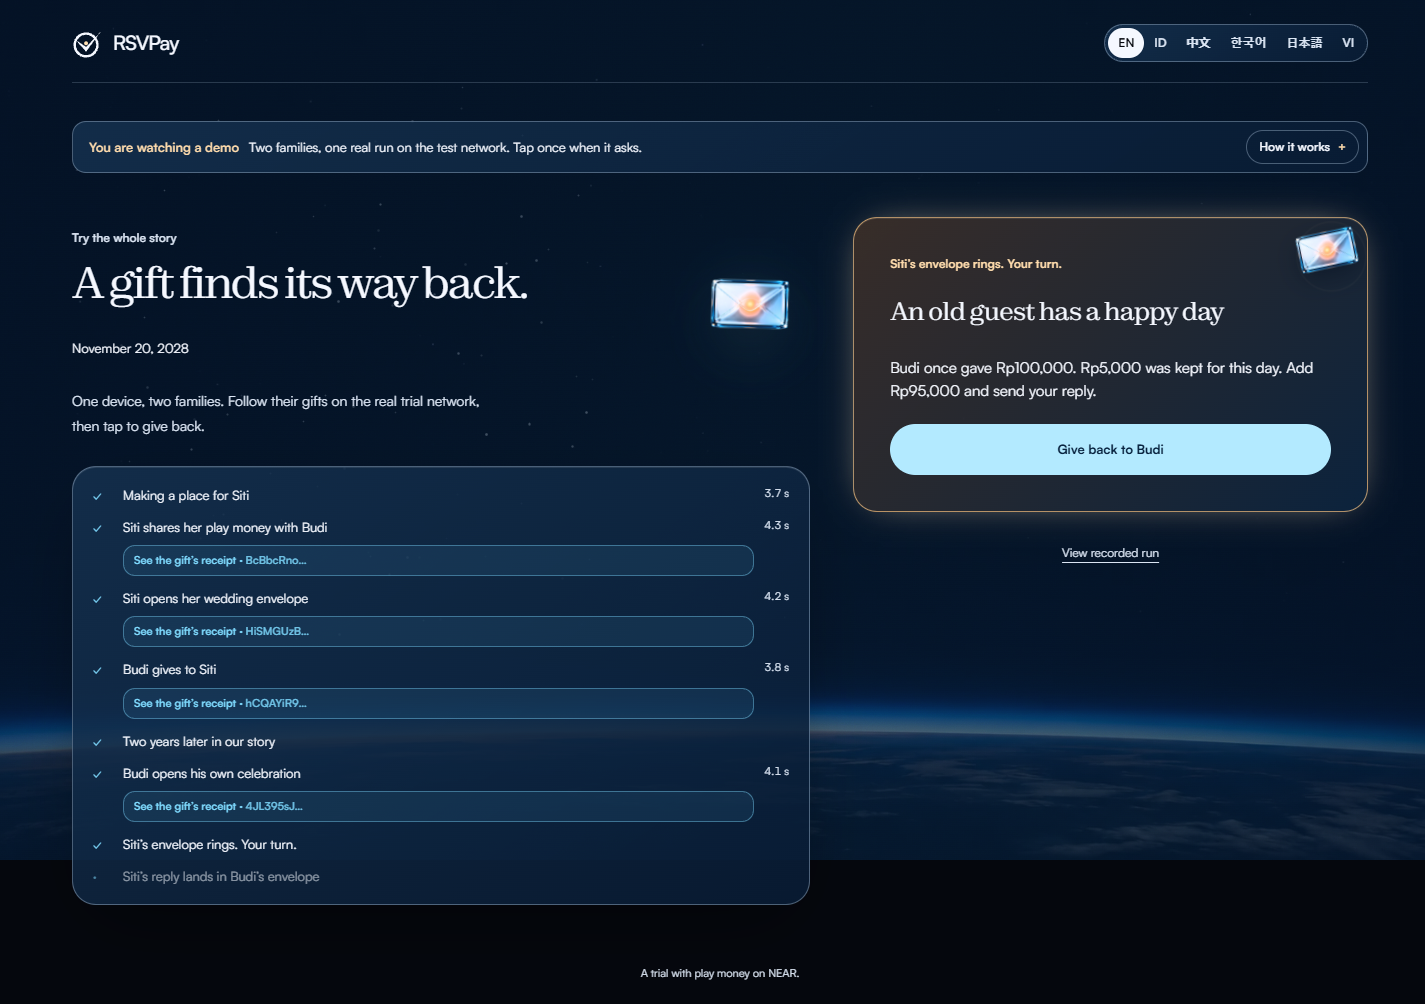
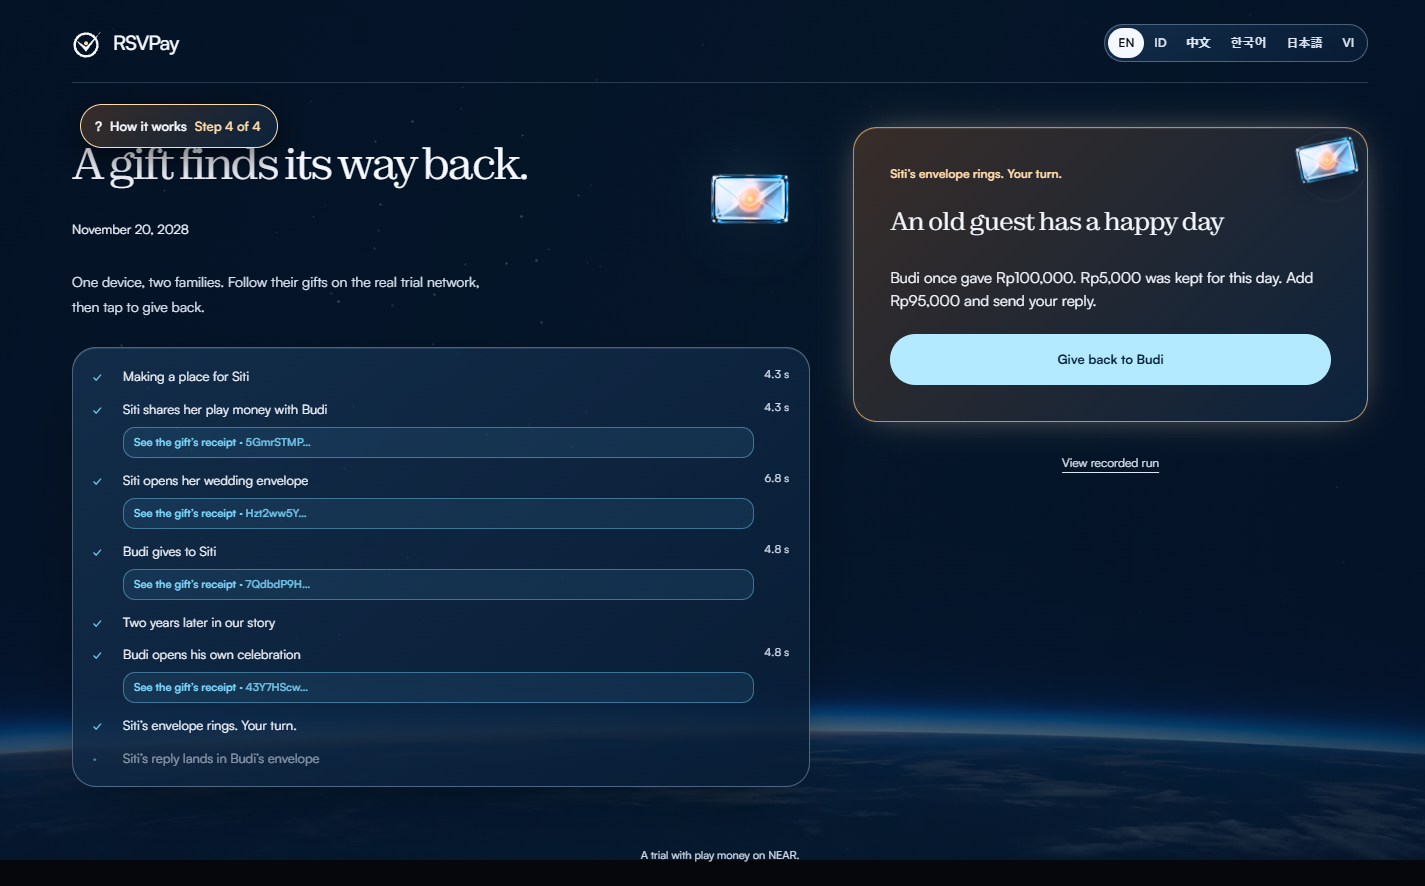
ITM-A4: bukti live penutup, kertas, dan dompet testnet
Laporan cerita utuh, balik, dan demo dari situs live sesudah deploy terakhir.

Bukti: docs/evidence/coba-e2e-report.txt, return-check-report.txt, demo-check-report.txt.

diff --git a/CHANGELOG.md b/CHANGELOG.md
@@ -15,7 +15,8 @@ What changed, by day. The project started on 3 November 2026. Commit messages ar
 ### Changed
 - One glass envelope now travels the whole landing: out of the clouds, onto each guest-table panel, into the reply story, past the proof, into each country's envelope, and into the morning. Desktop only.
 - "Don't trust us" is one screen with one fact and one button; the full list of checks is folded.
-- Make an envelope: the names and date are written on the envelope itself.
+- Make an envelope: the names and date are written on a card rising out of the envelope.
+- How it works sits under the logo on a laptop and by the thumb on a phone, and says which step you are on.
 - First visit downloads half as much: 3.0 MB before scrolling, down from 6.0 MB.
 - Small labels above headings and the chapter counter are gone.
 - The book links gifts and replies both ways, and the product name lives in one file.
@@ -24,6 +25,8 @@ What changed, by day. The project started on 3 November 2026. Commit messages ar
 - The heading on the make-an-envelope page stays put; the couple's names fade in beneath it.
 
 ### Fixed
+- The closing page stays whole on the way down and on the way back up, and holds long enough for the envelope to open.
+- Test accounts no longer depend on the public helper or run out mid-test: a testnet purse creates and tops them up.
 - The landing stayed broken after someone made an envelope, with space below the footer and no hero. The landing no longer renders an app block for returning accounts.
 - Low balance errors now read in plain words, using the wording the network really sends.
 

diff --git a/CLAIMS.md b/CLAIMS.md
@@ -22,7 +22,7 @@ Contract: [`amplop-c-mvznhnlx.testnet`](https://testnet.nearblocks.io/address/am
 
 | Claim | Proof | Check it yourself |
 |---|---|---|
-| The whole story runs on real testnet from one button, with a receipt per transaction. | [`coba-e2e-report.txt`](docs/evidence/coba-e2e-report.txt): 14 of 14 checks on the last run the public helper allowed, 6 November 02.34 Asia/Jakarta. A later attempt was refused with 429 and the page offered the labelled recording: [`coba-refused-report.txt`](docs/evidence/coba-refused-report.txt). | `cd frontend && node e2e/coba.e2e.mjs https://rsvpay.vercel.app` |
+| The whole story runs on real testnet from one button, with a receipt per transaction. | [`coba-e2e-report.txt`](docs/evidence/coba-e2e-report.txt): all checks on the last run, 6 November, 37.4 s, while the public helper was refusing this address. Accounts now come from a small testnet purse. If both fail, the page offers the labelled recording: [`coba-refused-report.txt`](docs/evidence/coba-refused-report.txt). | `cd frontend && node e2e/coba.e2e.mjs https://rsvpay.vercel.app` |
 | The story takes about a minute or less. | Between 28.6 s and 60.9 s, target 60 s. It depends on the public testnet. If the public helper refuses, the page says so and offers a run clearly labelled as a recording. | same |
 | A guest gives from a phone in 20 s or less, with nothing to install. | Step E4 in [`e2e-report.txt`](docs/evidence/e2e-report.txt): 10.7 s, signed in the browser. | `cd frontend && node e2e/alur.e2e.mjs` |
 | Guest pages fit a 360 px screen. | Step E3: 0 px overflow. | same |

diff --git a/README.md b/README.md
@@ -25,7 +25,7 @@ Also by the same builder: **Mintless** (*Kota Tanpa Cetak Uang*, track Games Wit
 
 Open https://rsvpay.vercel.app/#/coba, or click **Try the whole story** on the landing page. The route starts immediately. No account selection or second device is needed.
 
-The browser requests one throwaway account for Siti from NEAR's public testnet helper. Siti funds Budi's sub-account from her own test balance. It then opens Siti's wedding, sends Budi's gift, advances the story date by two years and opens Budi's celebration. The chain clock is unchanged. The envelope stops at the ring until you click **Give back to Budi**.
+The browser requests one throwaway account for Siti from a small testnet purse (`frontend/api/dana.ts`), or from NEAR's public testnet helper if the purse is empty. Siti funds Budi's sub-account from her own test balance. It then opens Siti's wedding, sends Budi's gift, advances the story date by two years and opens Budi's celebration. The chain clock is unchanged. The envelope stops at the ring until you click **Give back to Budi**.
 
 Each completed transaction has a receipt link and a measured duration. The end shows elapsed time including your pause, plus the sum of measured steps. The target is 60 seconds; live checks took between 28.6 s and 60.9 s including the pause, the slowest just over target, see [coba-e2e-report.txt](docs/evidence/coba-e2e-report.txt). Network latency and helper availability affect it.
 

diff --git a/SECURITY.md b/SECURITY.md
@@ -17,3 +17,7 @@ RSVPay is a hackathon project on NEAR testnet. It is not audited and holds only 
 **Known limits** are listed in [the threat model](docs/THREAT-MODEL.md#not-defended). You do not need to report those.
 
 We aim to answer within 72 hours during NEAR HACKATHON (until 15 November 2026) and within a week afterwards.
+
+## Testnet purse
+
+`frontend/api/dana.ts` holds one testnet key in a Vercel secret. It guards play money only. It can create sub-accounts of itself and top them up. Anyone can call it, so the worst case is an empty test purse, after which the site falls back to the public helper.
